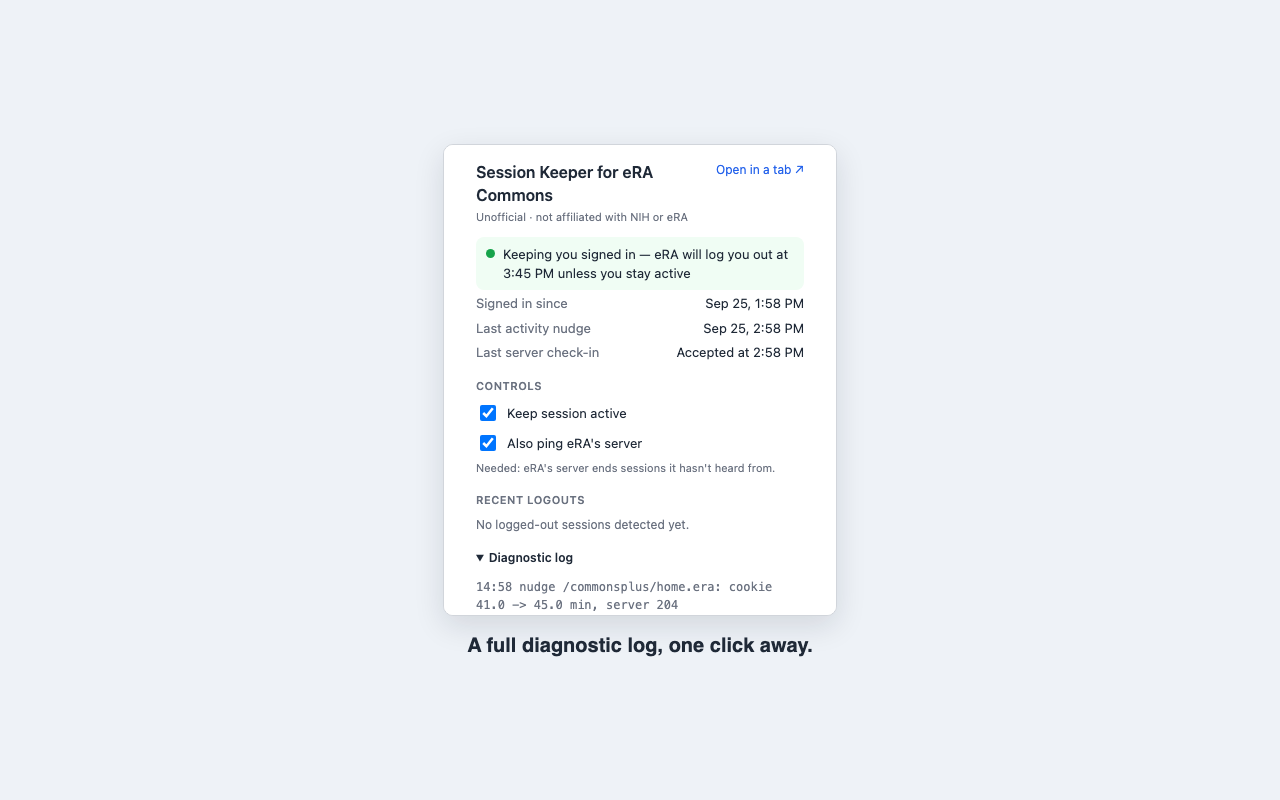
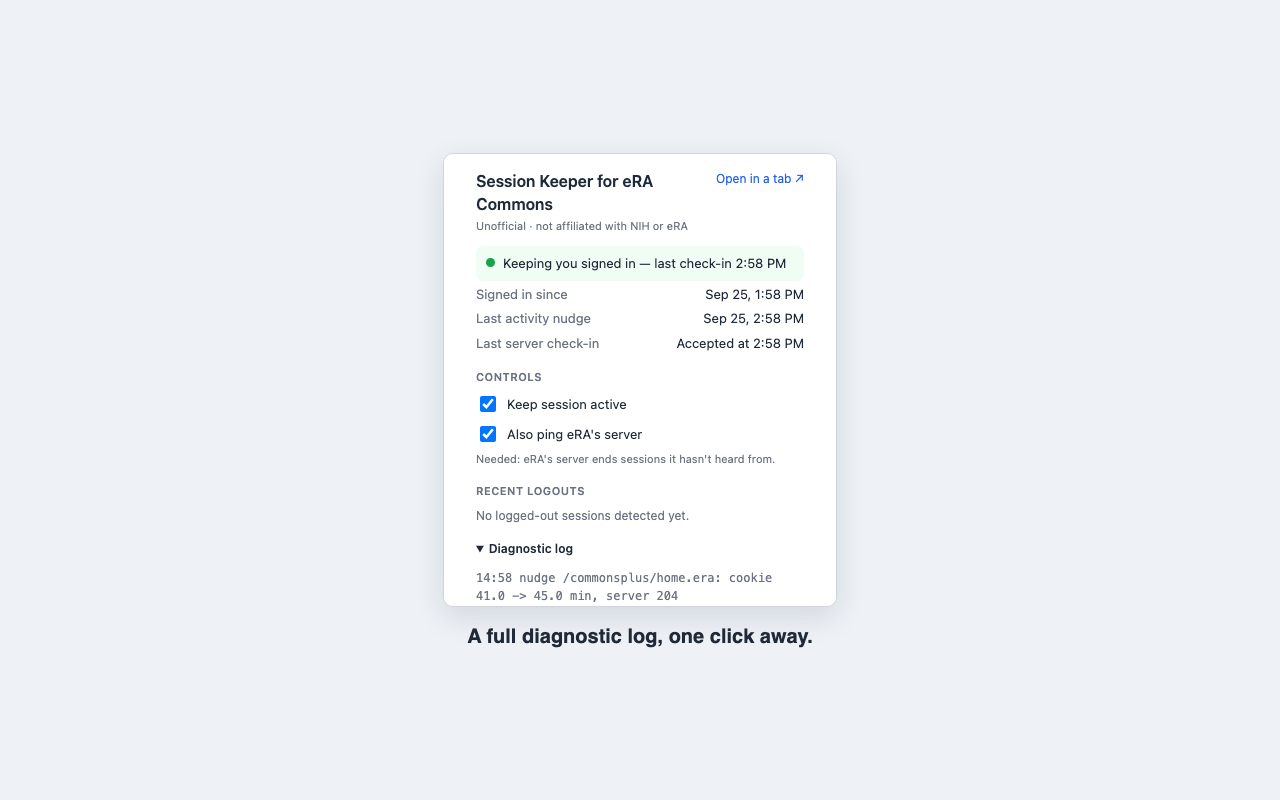
Show last activity check-in instead of a misleading eRA deadline
eRA's page timer is pushed forward by the extension every 4 minutes,
so showing "eRA will log you out at <time>" as a deadline was
misleading. The green status now says when the extension last
checked in instead, and rides a muted server-end pattern sentence
underneath it when one is available (the standalone pattern line
under Controls now hides while signed in, so it isn't said twice).

Changed region(s): [[0.3438, 0.1875, 0.6562, 0.8125], [0.5625, 0.1875, 0.625, 0.25]]

diff --git a/tests/popup.test.js b/tests/popup.test.js
@@ -7,6 +7,7 @@ var path = require("node:path");
 var vm = require("node:vm");
 
 var ROOT = path.join(__dirname, "..");
+var matcher_ = require(path.join(ROOT, "src/matcher.js"));
 // Synthetic chrome.storage.local shaped like a real logout capture (v1.4.2).
 // It mixes v1.2.0 logout records and log entries with current ones. Some
 // scalars are garbled the way the leveldb extraction produces them (strings
@@ -46,7 +47,7 @@ function fakeElement(tag) {
 
 function renderPopup(state, options) {
   options = options || {};
-  var ids = ["enabled", "ping-server", "status", "status-block", "details",
+  var ids = ["enabled", "ping-server", "status", "status-subtext", "status-block", "details",
     "dt-signed-in", "signed-in", "dt-last-nudge", "last-nudge",
     "dt-server-checkin", "server-checkin", "dt-last-click", "last-click",
     "session-pattern", "logout-records", "diagnostic-log", "copy-log", "version", "open-tab"];
@@ -180,7 +181,7 @@ test("one bad section or record never blanks the rest of the popup", async funct
   var e = popup.elements;
   assert.equal(texts(e["diagnostic-log"]).length, 30);
   assert.ok(e["logout-records"].children.length >= 7);
-  assert.equal(e.status.textContent, "Keeping you signed in");
+  assert.equal(e.status.textContent, "Keeping you signed in — last check-in " + matcher_.clockTime(state.lastNudgeAt));
   assert.equal(e["status-block"].classList.contains("tone-ok"), true);
 
   // Not arrays at all: those two parts show their empty text, the rest renders.
@@ -334,16 +335,49 @@ test("the status line names a server end only while that end is the current one"
   assert.equal(notServer.elements.status.textContent, "Signed out — log in to eRA again.");
 });
 
-test("the 'eRA will log you out at' clause only appears when there is a future time to show", async function () {
+test("the 'last check-in' clause only appears when there has been a nudge", async function () {
   var at = Date.UTC(2026, 8, 25, 16, 45);
-  var withTime = renderPopup({ sessionStatus: "logged-in", eraLogoutAt: at });
+  var withNudge = renderPopup({ sessionStatus: "logged-in", lastNudgeAt: at });
   await settle();
-  assert.match(withTime.elements.status.textContent, /unless you stay active$/);
+  assert.equal(withNudge.elements.status.textContent, "Keeping you signed in — last check-in " + withNudge.context.EraKeepAlive.clockTime(at));
 
-  var withoutTime = renderPopup({ sessionStatus: "logged-in", eraLogoutAt: null });
+  var withoutNudge = renderPopup({ sessionStatus: "logged-in", lastNudgeAt: null });
   await settle();
-  assert.equal(withoutTime.elements.status.textContent, "Keeping you signed in");
-  assert.doesNotMatch(withoutTime.elements.status.textContent, /Never/);
+  assert.equal(withoutNudge.elements.status.textContent, "Keeping you signed in");
+  assert.doesNotMatch(withoutNudge.elements.status.textContent, /Never/);
+});
+
+test("a server-end pattern sentence shows as a muted line under the green status", async function () {
+  var start = Date.UTC(2026, 8, 25, 17, 50);
+  function serverEnd(minutes, dayOffset) {
+    var startedAt = start - dayOffset * 86400000;
+    return {
+      loggedOutDetectedAt: startedAt + minutes * 60000,
+      reason: matcher_.SERVER_END_REASON,
+      serverEnded: true,
+      sessionStartedAt: startedAt,
+      estimatedEndAt: startedAt + minutes * 60000
+    };
+  }
+  var withPattern = renderPopup({
+    sessionStatus: "logged-in",
+    lastNudgeAt: start,
+    logoutRecords: [serverEnd(128, 0), serverEnd(132, 1)]
+  });
+  await settle();
+  assert.equal(withPattern.elements["status-block"].classList.contains("tone-ok"), true);
+  assert.equal(withPattern.elements["status-subtext"].hidden, false);
+  assert.equal(withPattern.elements["status-subtext"].textContent,
+    "eRA seems to end sessions about 2 h 10 min after sign-in (seen 2 times).");
+  // The standalone pattern line stays hidden while signed in — the same
+  // sentence is already the status subtext, so it is not said twice.
+  assert.equal(withPattern.elements["session-pattern"].hidden, true);
+
+  // No pattern yet (fewer than two server-ended records): the line stays hidden.
+  var withoutPattern = renderPopup({ sessionStatus: "logged-in", lastNudgeAt: start, logoutRecords: [serverEnd(128, 0)] });
+  await settle();
+  assert.equal(withoutPattern.elements["status-subtext"].hidden, true);
+  assert.equal(withoutPattern.elements["status-subtext"].textContent, "");
 });
 
 test("the server check-in detail row is off, accepted or refused, never a bare 'Never'", async function () {

diff --git a/popup.js b/popup.js
@@ -148,11 +148,17 @@ function currentServerEnd(state) {
 
 function renderStatus(state) {
   var serverEnd = currentServerEnd(state);
-  var status = matcher.popupStatus(state, serverEnd);
+  var pattern = matcher.sessionEndPattern(listFrom(state.logoutRecords));
+  var status = matcher.popupStatus(state, serverEnd, pattern);
   var block = document.getElementById("status-block");
   block.classList.remove("tone-ok", "tone-bad", "tone-neutral");
   block.classList.add("tone-" + status.tone);
   document.getElementById("status").textContent = status.text;
+  var subtext = document.getElementById("status-subtext");
+  if (subtext) {
+    subtext.hidden = !status.subtext;
+    subtext.textContent = status.subtext || "";
+  }
 }
 
 function renderDetails(state) {
@@ -165,11 +171,14 @@ function renderDetails(state) {
 }
 
 // Shown once two server-ended sessions lasted about as long as each other.
-function renderSessionPattern(records) {
+// While signed in, the same sentence already rides under the green status,
+// so this standalone line stays hidden then to avoid saying it twice.
+function renderSessionPattern(state, records) {
   var pattern = document.getElementById("session-pattern");
   var sentence = matcher.sessionEndPattern(records);
-  pattern.hidden = !sentence;
-  pattern.textContent = sentence || "";
+  var show = !!sentence && state.sessionStatus !== "logged-in";
+  pattern.hidden = !show;
+  pattern.textContent = show ? sentence : "";
 }
 
 function render(state) {
@@ -183,7 +192,7 @@ function render(state) {
   });
   section("status", function () { renderStatus(state); });
   section("details", function () { renderDetails(state); });
-  section("session-pattern", function () { renderSessionPattern(listFrom(state.logoutRecords)); });
+  section("session-pattern", function () { renderSessionPattern(state, listFrom(state.logoutRecords)); });
   section("logout-records", function () { renderLogoutRecords(listFrom(state.logoutRecords)); });
   section("diagnostic-log", function () { renderDiagnosticLog(listFrom(state.diagnosticLog)); });
 }

diff --git a/tests/matcher.test.js b/tests/matcher.test.js
@@ -422,10 +422,20 @@ test("popupStatus gives the pill's tone and sentence for each state", function (
     { tone: "neutral", text: "No eRA tab open — not keeping the session alive" });
   assert.deepEqual(matcher.popupStatus({ enabled: true, sessionStatus: "logged-in" }, null),
     { tone: "ok", text: "Keeping you signed in" });
-  var logoutAt = Date.UTC(2026, 8, 25, 16, 45);
-  assert.deepEqual(matcher.popupStatus({ enabled: true, sessionStatus: "logged-in", eraLogoutAt: logoutAt }, null),
-    { tone: "ok", text: "Keeping you signed in — eRA will log you out at " + matcher.clockTime(logoutAt) + " unless you stay active" });
-  assert.deepEqual(matcher.popupStatus({ enabled: true, sessionStatus: "logged-out" }, null),
+  var lastNudgeAt = Date.UTC(2026, 8, 25, 16, 45);
+  assert.deepEqual(matcher.popupStatus({ enabled: true, sessionStatus: "logged-in", lastNudgeAt: lastNudgeAt }, null),
+    { tone: "ok", text: "Keeping you signed in — last check-in " + matcher.clockTime(lastNudgeAt) });
+  // A server-end pattern sentence rides along as a subtext line, only for
+  // the green "signed in" status.
+  assert.deepEqual(
+    matcher.popupStatus({ enabled: true, sessionStatus: "logged-in", lastNudgeAt: lastNudgeAt }, null, "eRA seems to end sessions about 2 h after sign-in (seen 2 times)."),
+    {
+      tone: "ok",
+      text: "Keeping you signed in — last check-in " + matcher.clockTime(lastNudgeAt),
+      subtext: "eRA seems to end sessions about 2 h after sign-in (seen 2 times)."
+    }
+  );
+  assert.deepEqual(matcher.popupStatus({ enabled: true, sessionStatus: "logged-out" }, null, "eRA seems to end sessions about 2 h after sign-in (seen 2 times)."),
     { tone: "bad", text: "Signed out — log in to eRA again." });
   assert.deepEqual(matcher.popupStatus({ enabled: true, sessionStatus: "unknown" }, null),
     { tone: "neutral", text: "Status unknown" });

diff --git a/src/matcher.js b/src/matcher.js
@@ -385,19 +385,26 @@
 
   // The status pill's tone and sentence. serverEndRecord is the current
   // server-ended record (see the popup's own currentServerEnd), or null.
-  function popupStatus(state, serverEndRecord) {
+  // patternSentence is the current eRA-session-limit sentence (see
+  // sessionEndPattern), or null; when given, it rides along as a muted
+  // second line under the green "signed in" status.
+  function popupStatus(state, serverEndRecord, patternSentence) {
     state = state && typeof state === "object" ? state : {};
     if (state.enabled === false) return { tone: "neutral", text: "Turned off" };
     if (state.sessionStatus === "idle") {
       return { tone: "neutral", text: "No eRA tab open — not keeping the session alive" };
     }
     if (state.sessionStatus === "logged-in") {
-      var logoutAt = isFiniteNumber(state.eraLogoutAt) ? clockTime(state.eraLogoutAt) : null;
-      return {
+      // The eRA page timer is pushed forward by the extension every 4
+      // minutes, so its "log you out at" time is not a real deadline; the
+      // last nudge is the honest thing to show instead.
+      var lastCheckIn = isFiniteNumber(state.lastNudgeAt) ? clockTime(state.lastNudgeAt) : null;
+      var result = {
         tone: "ok",
-        text: "Keeping you signed in" +
-          (logoutAt ? " — eRA will log you out at " + logoutAt + " unless you stay active" : "")
+        text: "Keeping you signed in" + (lastCheckIn ? " — last check-in " + lastCheckIn : "")
       };
+      if (patternSentence) result.subtext = patternSentence;
+      return result;
     }
     if (state.sessionStatus === "logged-out") {
       var text = "Signed out — log in to eRA again.";

diff --git a/popup.html b/popup.html
@@ -80,7 +80,9 @@
       .status-dot { flex: 0 0 auto; width: 9px; height: 9px; margin-top: 4px; border-radius: 50%; background: var(--neutral); }
       .status-block.tone-ok .status-dot { background: var(--ok); }
       .status-block.tone-bad .status-dot { background: var(--bad); }
+      .status-lines { flex: 1 1 auto; min-width: 0; }
       .status-text { margin: 0; font-size: 13px; line-height: 1.4; }
+      .status-subtext { margin: 4px 0 0; font-size: 11.5px; line-height: 1.4; color: var(--muted); }
 
       h2 {
         font-size: 11px;
@@ -134,7 +136,10 @@
 
       <div id="status-block" class="status-block">
         <span id="status-dot" class="status-dot"></span>
-        <p id="status" class="status-text">Loading…</p>
+        <div class="status-lines">
+          <p id="status" class="status-text">Loading…</p>
+          <p id="status-subtext" class="status-subtext" hidden></p>
+        </div>
       </div>
 
       <dl id="details" class="details">
